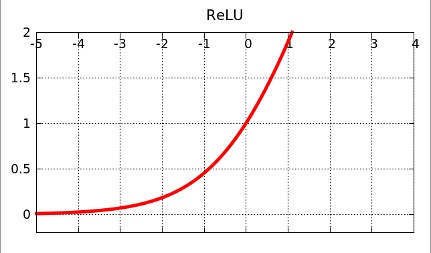
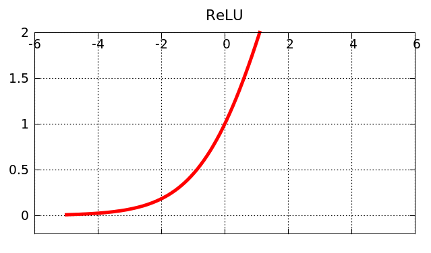
Fix error in ReLU transfer function (softplus) formula.

diff --git a/neural2d-core.cpp b/neural2d-core.cpp
@@ -121,11 +121,12 @@ float transferFunctionGaussian(float x) { return exp(-((x * x) / 2.0)); }
 float transferFunctionDerivativeGaussian(float x) { return -x * exp(-(x * x) / 2.0); }
 
 // ReLU:
-// This is a softmax approximation of a ReLU:
-float transferFunctionReLU(float x) { return exp(-((x * x) / 2.0)); }
-float transferFunctionDerivativeReLU(float x) { return -x * exp(-(x * x) / 2.0); }
+// This is a softplus approximation of a ReLU:
+float transferFunctionReLU(float x) { return log(1.0 + exp(x)); }
+float transferFunctionDerivativeReLU(float x) { return 1.0 / (1.0 + exp(-x)); }
 
-float transferFunctionIdentity(float x) { return x; } // Used only in convolution layers
+// Identity function:
+float transferFunctionIdentity(float x) { return x; }
 float transferFunctionIdentityDerivative(float x) { return (void)x, 1.0; }
 
 
